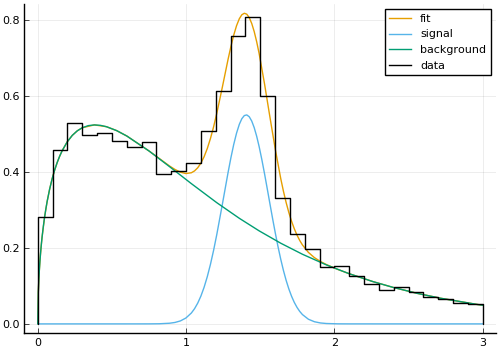
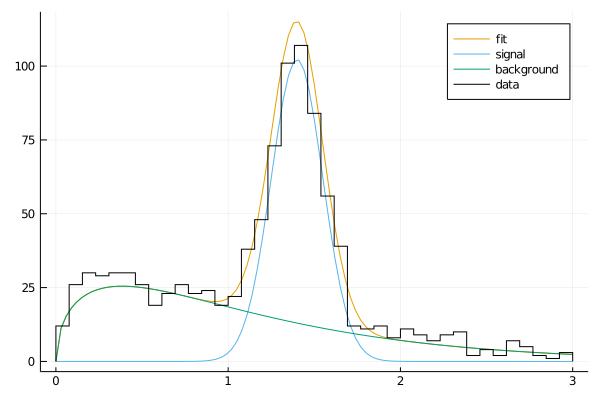
Measurements, readme update

Changed region(s): [[0.0, 0.0, 1.0, 1.0], [0.72, 0.0, 0.99, 0.2571], [0.48, 0.6286, 0.51, 0.6571]]

diff --git a/README.md b/README.md
@@ -5,23 +5,33 @@
 [![Codecov](https://codecov.io/gh/mmikhasenko/AlgebraPDF.jl/branch/master/graph/badge.svg)](https://codecov.io/gh/mmikhasenko/AlgebraPDF.jl)
 
 Basic functionality:
+ * constructing a pdf object from arbitraty function:
+    - required function format `myfunc(x;p)` where `p` is a NamedTuple of parameters
+    - the normalization is computed automatically using `QuadGK.jl` in the giben `lims`
+    - algebra of functions with parameters: `*`, `+`, `-`, `/`
+ * construction of mixed models in the form `f₁ PDF₁ + f₂ PDF₂ + (1-f₁-f₂) PDF₃`.
+ * fitting data distribution using the maximum likelihood (`Optim.jl`)
+ * plotting recipies
+
 ```julia
 using AlgebraPDF
 using Plots
-pyplot()
 theme(:wong)
 
 # create a model
 snl = aGauss((μ=1.4, σ=0.15), (0, 3))
 bkg = pdf(@. (x;p) -> sqrt(x)*exp(-p.α*x); p = (α=1.3,), lims=(0, 3))
-bkg *= (fb=2.5,)
-pdf_sum = snl + bkg
+bkg_f = bkg * (fb=2.5,)
+pdf_sum = snl + bkg_f
 
 # generating
 const data = generate(1000, pdf_sum);
 
 # fitting
-pfr = v2p(fit_llh(data, pdf_sum; init_pars=p2v(pdf_sum)), pdf_sum)
+fr = fit_llh(data, pdf_sum; init_pars=p2v(pdf_sum))
+pfr = v2p(minimizer(fr), pdf_sum) # NamedTuple (parameter = value, ...)
+efr = v2p(errors(fr), pdf_sum) # NamedTuple (parameter = error, ...)
+mfr = v2p(measurements(fr), pdf_sum) # NamedTuple (parameter = value ± error, ...)
 
 # plotting
 let
@@ -30,6 +40,21 @@ let
   plot!(x->snl(x; p=pfr, norm_according_to=pdf_sum), lims(pdf_sum)..., lab="signal")
   plot!(x->bkg(x; p=pfr, norm_according_to=pdf_sum), lims(pdf_sum)..., lab="background")
   stephist!(data, norm=true, c=:black, bins=50, lab="data")
+end
+
+# Alternatively one can use a mixed model
+pdf_sum = MixedModel([snl, bkg], (fS = 0.5,))
+fr = fit_llh(data, pdf_sum)
+# 
+let
+  Nd = length(data)
+  bins = range(lims(pdf_sum)..., length = 40)
+  Ns = scaletobinneddata(Nd, bins)
+  #
+  plot(pdf_sum, Ns, lab="fit")
+  plot!(pdf_sum.components[1], fractions(pdf_sum)[1]*Ns, lab="signal")
+  plot!(pdf_sum.components[2], fractions(pdf_sum)[2]*Ns, lab="background")
+  stephist!(data, c=:black, bins=bins, lab="data")
 end
 ```
 ![example](plots/gaus.background.png)
